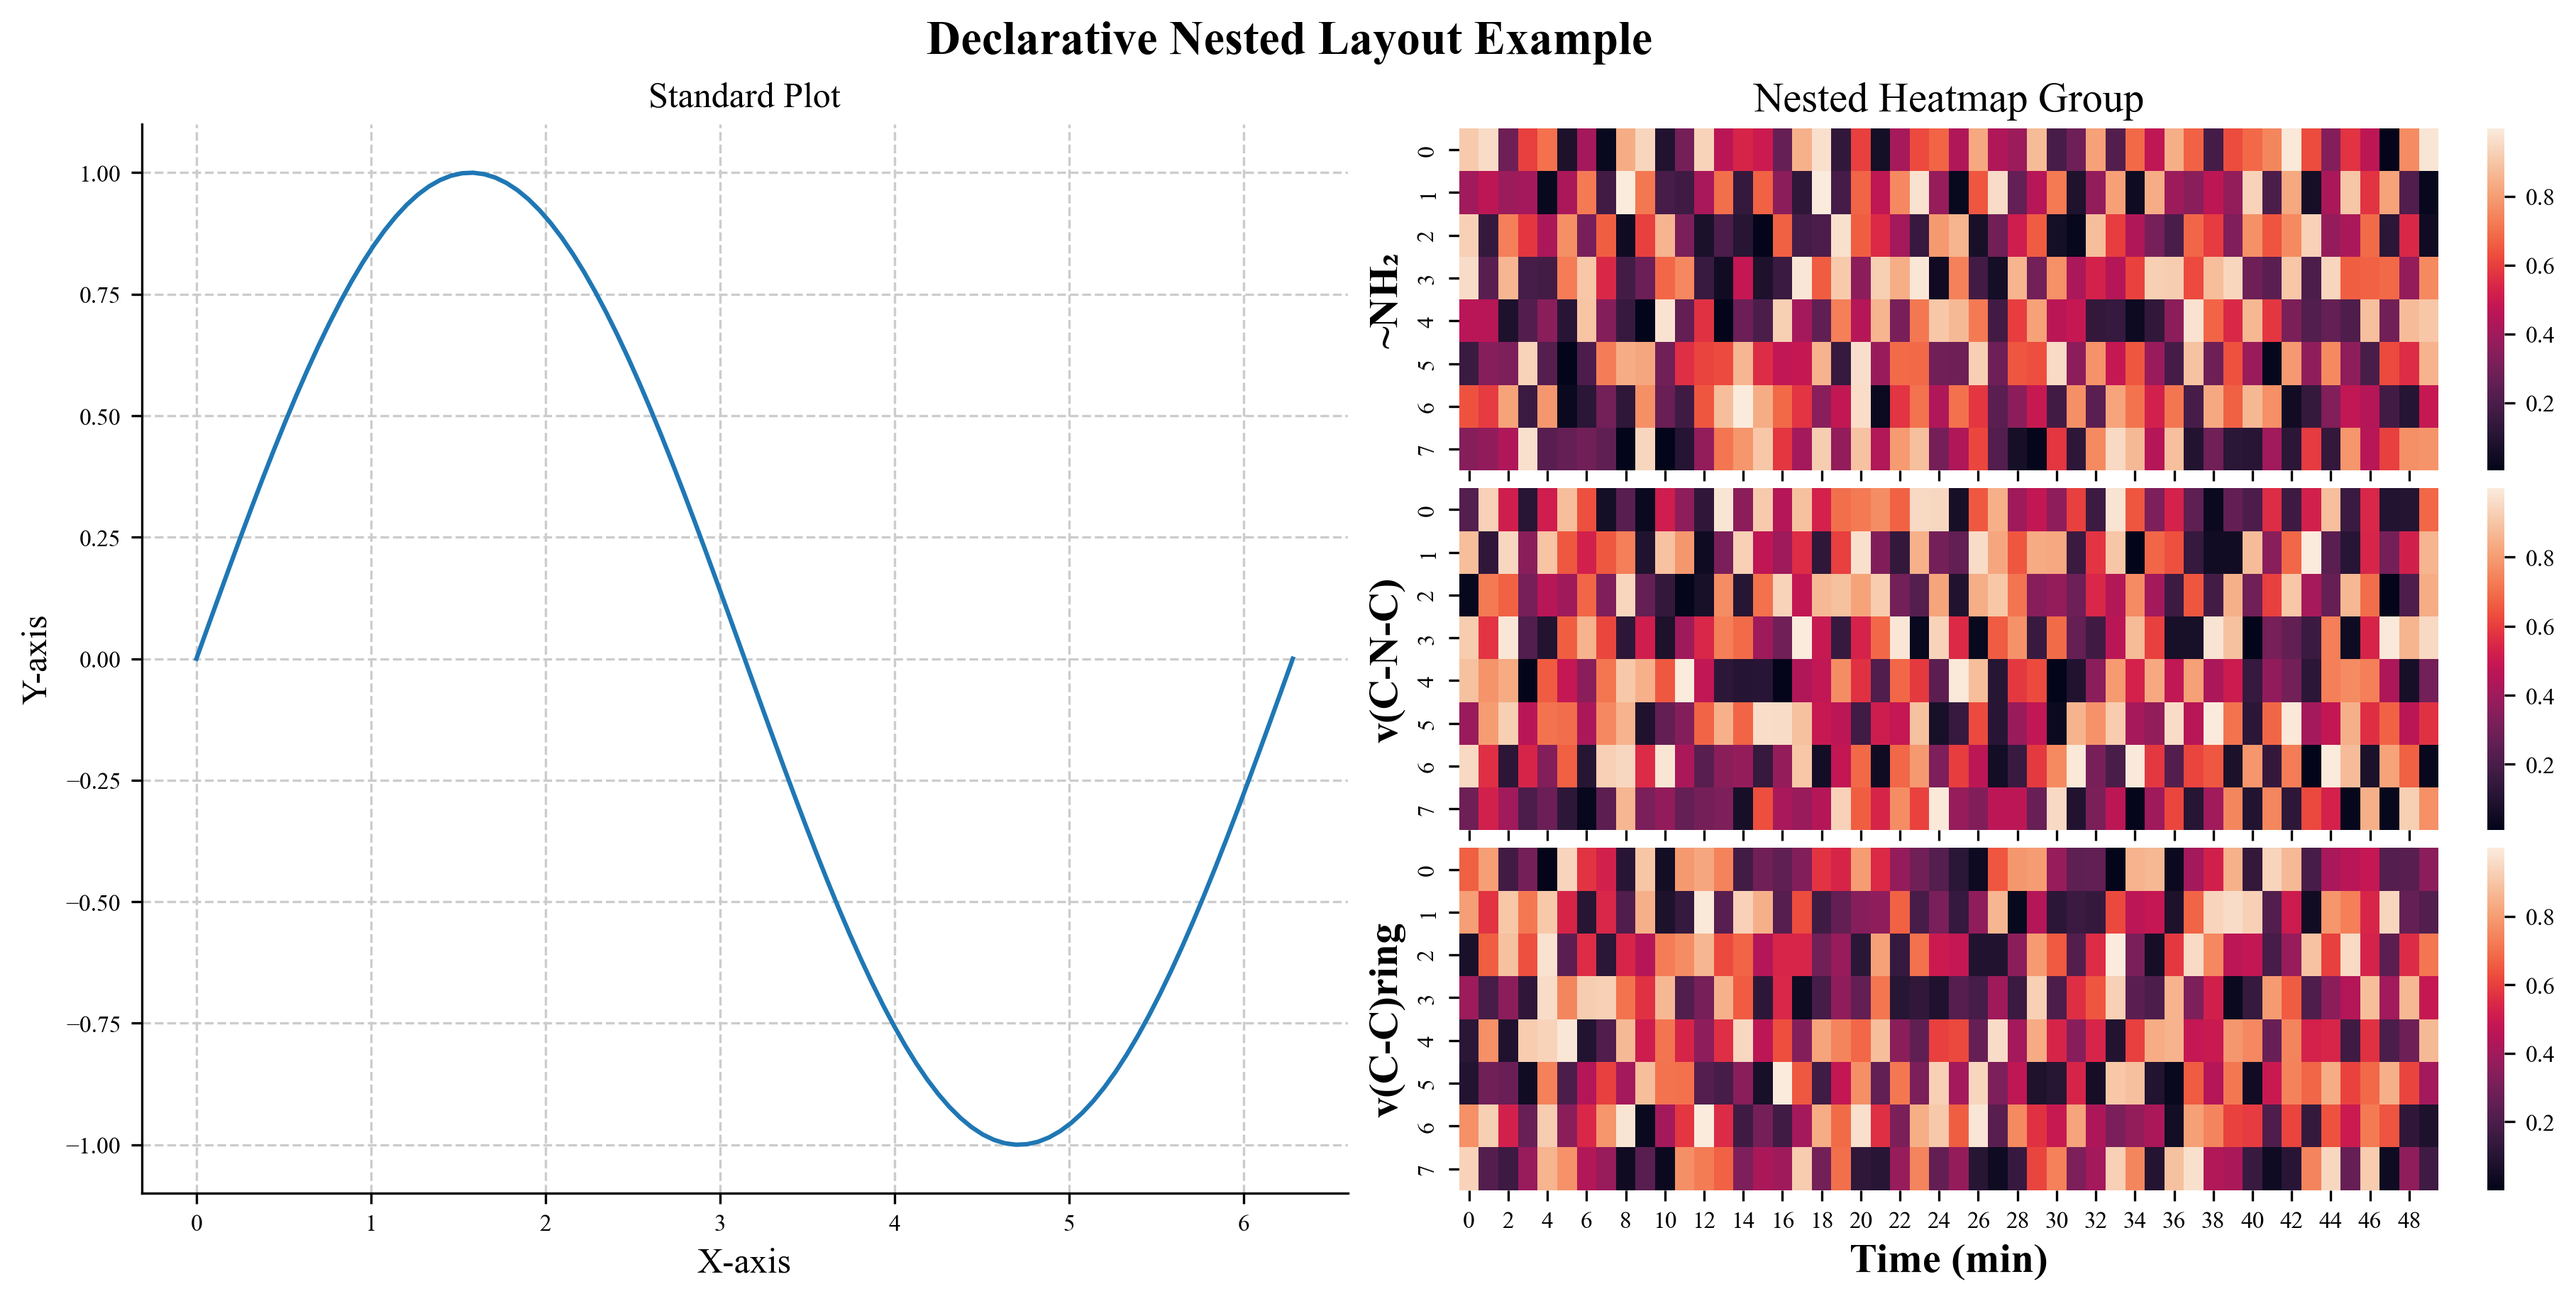
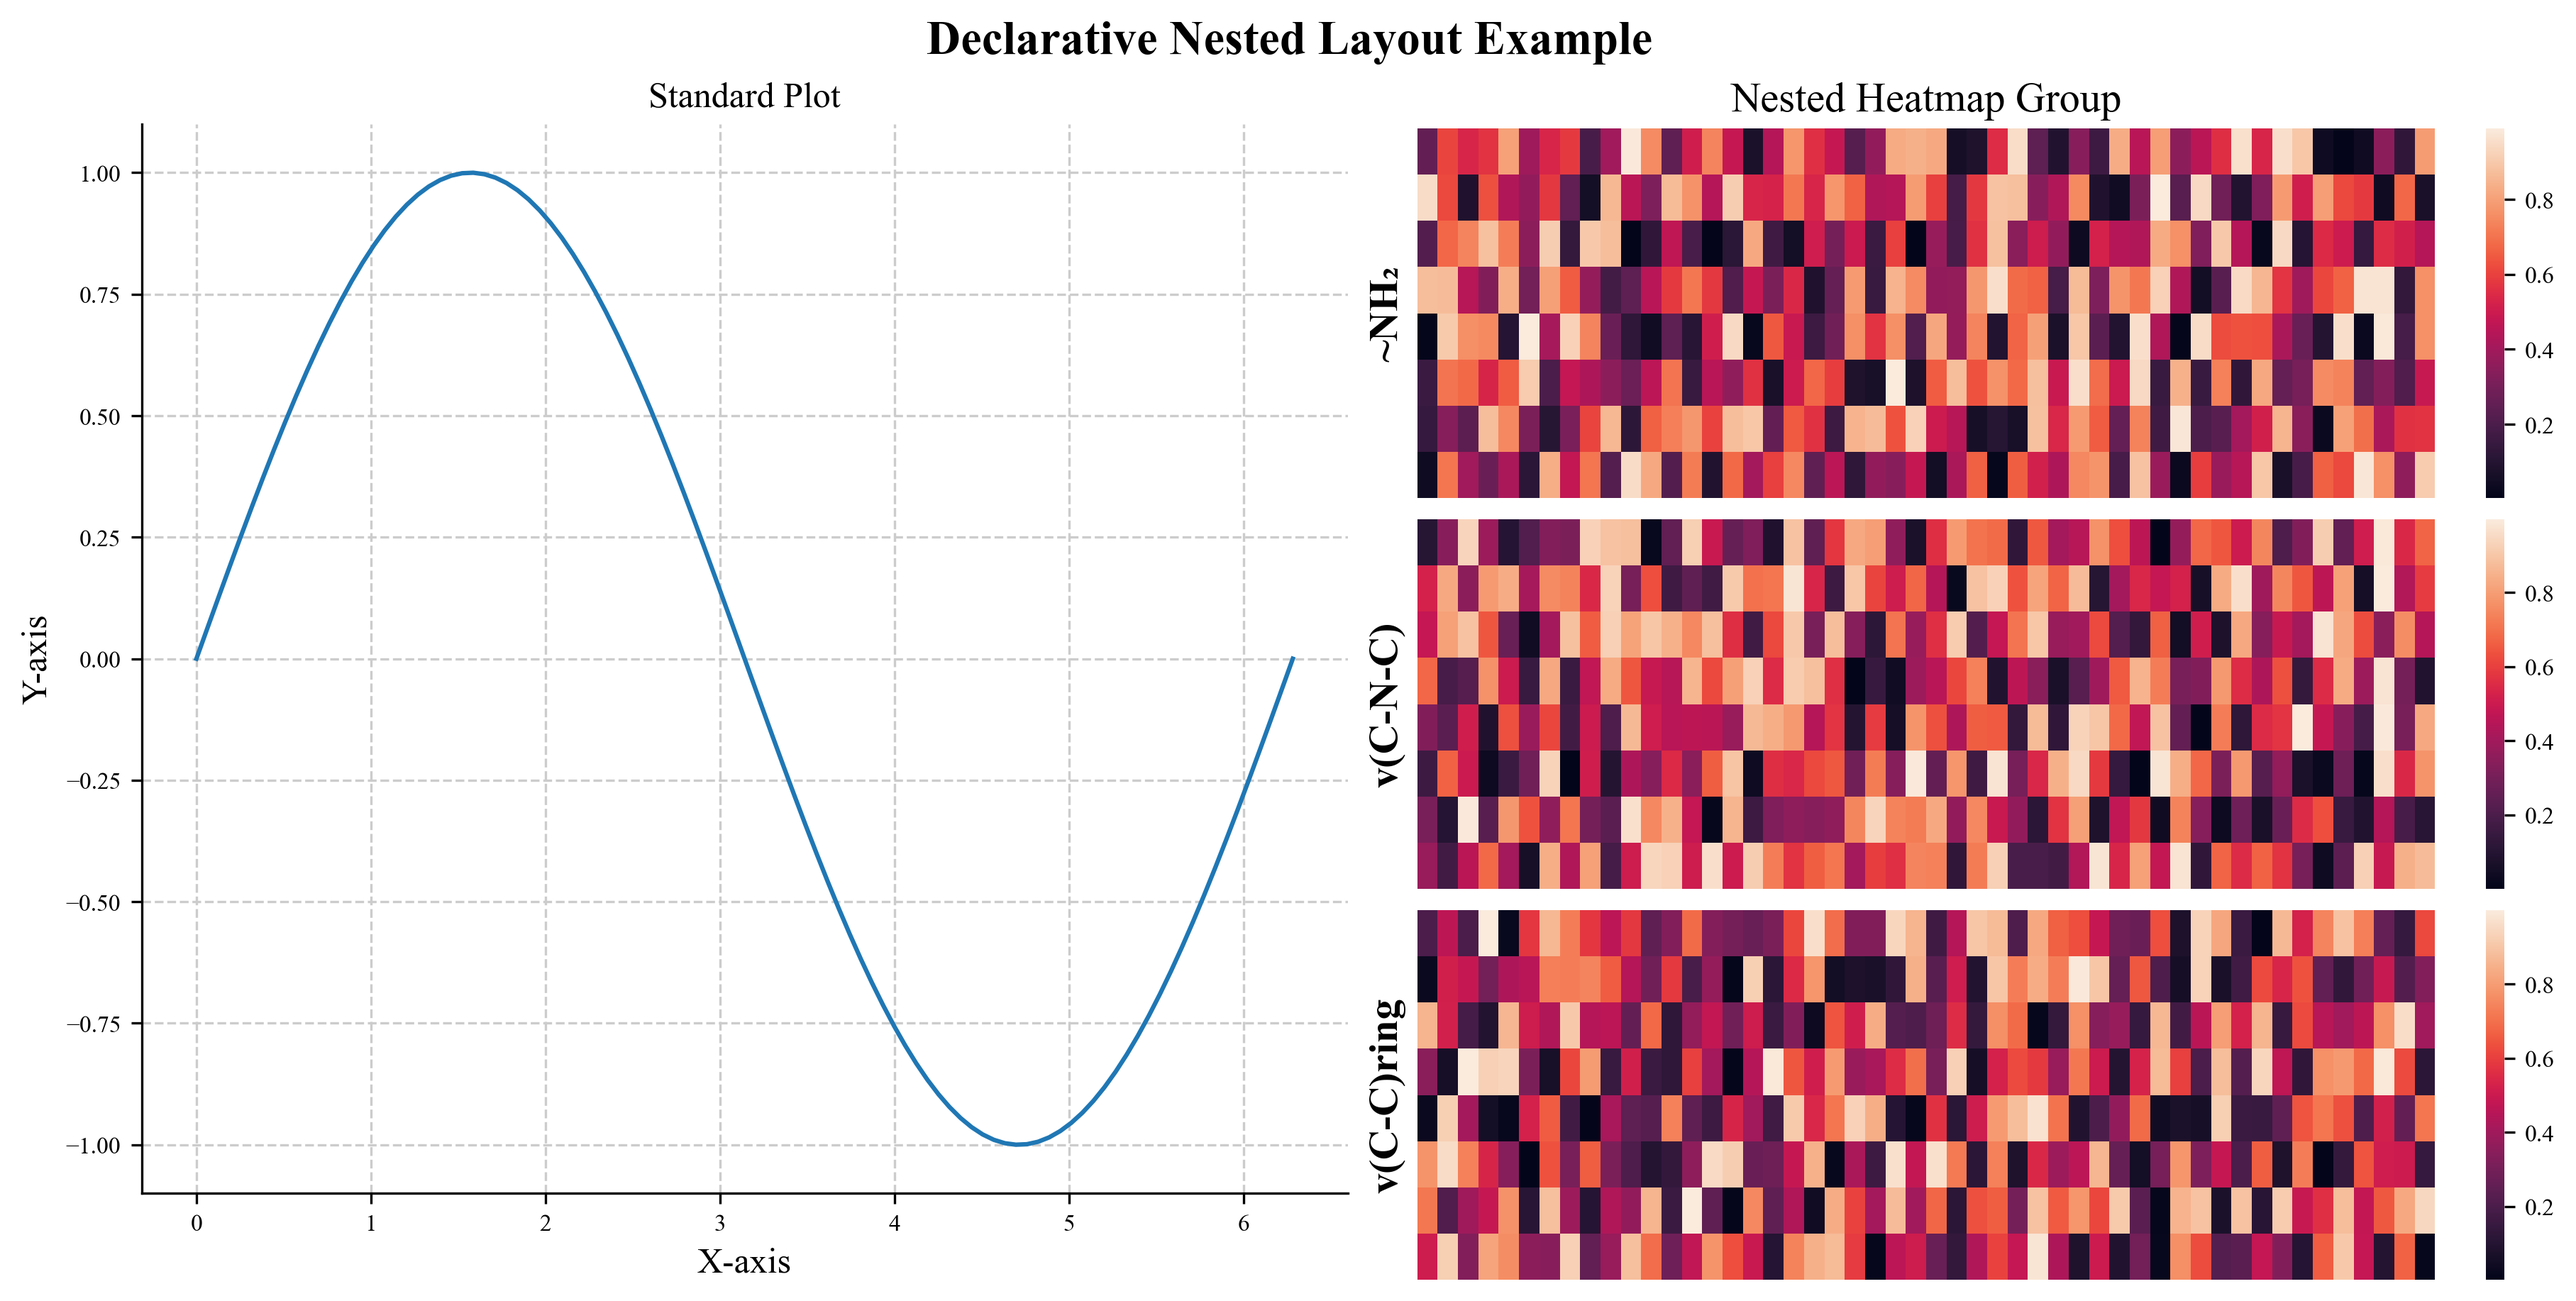
Initial commit

diff --git a/paperplot/mixins/modifiers.py b/paperplot/mixins/modifiers.py
@@ -393,15 +393,56 @@ class ModifiersMixin:
 
         return self
 
-    def hide_axes(self, x: bool = False, y: bool = False) -> 'Plotter':
+    def hide_axes(self, tag: Union[str, int],
+                  x_axis=False, y_axis=False,
+                  x_ticks=False, y_ticks=False,
+                  x_tick_labels=False, y_tick_labels=False,
+                  x_label=False, y_label=False,
+                  spines: List[str] = None) -> 'Plotter':
         """
-        隐藏所有子图的X轴或Y轴。
+        精细化地隐藏指定子图的坐标轴元素。
+
+        Args:
+            tag (Union[str, int]): 目标子图的 tag。
+            x_axis (bool): 如果为 True，隐藏整个 X 轴（包括标签、刻度等）。
+            y_axis (bool): 如果为 True，隐藏整个 Y 轴。
+            x_ticks (bool): 如果为 True，仅隐藏 X 轴的刻度线。
+            y_ticks (bool): 如果为 True，仅隐藏 Y 轴的刻度线。
+            x_tick_labels (bool): 如果为 True，仅隐藏 X 轴的刻度标签。
+            y_tick_labels (bool): 如果为 True，仅隐藏 Y 轴的刻度标签。
+            x_label (bool): 如果为 True，仅隐藏 X 轴的标签文本。
+            y_label (bool): 如果为 True，仅隐藏 Y 轴的标签文本。
+            spines (List[str]): 一个包含 'top', 'bottom', 'left', 'right' 的列表，
+                                 指定要隐藏的轴线。
+        Returns:
+            Plotter: 返回Plotter实例以支持链式调用。
         """
-        for ax in self.axes:
-            if x:
-                ax.get_xaxis().set_visible(False)
-            if y:
-                ax.get_yaxis().set_visible(False)
+        ax = self._get_ax_by_tag(tag)
+
+        if x_axis:
+            ax.get_xaxis().set_visible(False)
+        if y_axis:
+            ax.get_yaxis().set_visible(False)
+
+        if x_ticks:
+            ax.tick_params(axis='x', bottom=False)
+        if y_ticks:
+            ax.tick_params(axis='y', left=False)
+
+        if x_tick_labels:
+            ax.tick_params(axis='x', labelbottom=False)
+        if y_tick_labels:
+            ax.tick_params(axis='y', labelleft=False)
+
+        if x_label:
+            ax.xaxis.label.set_visible(False)
+        if y_label:
+            ax.yaxis.label.set_visible(False)
+
+        if spines:
+            for spine in spines:
+                ax.spines[spine].set_visible(False)
+
         return self
 
     def cleanup(self, share_y_on_rows: list[int] = None, share_x_on_cols: list[int] = None, align_labels: bool = True, auto_share: Union[bool, str] = False):

diff --git a/paperplot/core.py b/paperplot/core.py
@@ -23,6 +23,7 @@ class Plotter(GenericPlotsMixin, ModifiersMixin, DomainSpecificPlotsMixin):
                  figsize: Optional[Tuple[float, float]] = None, 
                  subplot_aspect: Optional[Tuple[float, float]] = None,
                  ax_configs: Optional[Dict[Union[str, Tuple[int, int]], Dict]] = None,
+                 layout_engine: Optional[str] = 'constrained',
                  **fig_kwargs):
         """
         初始化一个绘图管理器，创建画布和子图网格。
@@ -32,6 +33,7 @@ class Plotter(GenericPlotsMixin, ModifiersMixin, DomainSpecificPlotsMixin):
                 定义子图布局。
                 - 如果是 `(n_rows, n_cols)` 元组，将创建一个简单的 `n_rows` 行 `n_cols` 列的网格。
                 - 如果是 `List[List[str]]` (马赛克布局)，则允许创建复杂、跨行/跨列的布局。
+                - 如果是 `Dict`，则允许创建复杂、嵌套的布局。
             style (str, optional): 要应用的Matplotlib样式名称。默认为 'publication'。
             figsize (Optional[Tuple[float, float]], optional): 整个画布的尺寸 (宽度, 高度) 英寸。
                                                                与 `subplot_aspect` 互斥。
@@ -43,12 +45,16 @@ class Plotter(GenericPlotsMixin, ModifiersMixin, DomainSpecificPlotsMixin):
                 一个字典，键是子图的tag（对于马赛克布局）或`(row, col)`元组（对于简单网格），
                 值是传递给 `fig.add_subplot` 的关键字参数字典（例如 `{'projection': 'polar'}`）。
                 默认为None。
+            layout_engine (Optional[str], optional): 布局引擎。默认为 'constrained'。
             **fig_kwargs: 其他传递给 `matplotlib.pyplot.figure` 的关键字参数。
 
         Raises:
             ValueError: 如果布局定义无效，或者 `figsize` 和 `subplot_aspect` 被同时指定。
         """
         super().__init__()
+
+        if layout_engine:
+            fig_kwargs.setdefault('layout', layout_engine)
 
         if figsize is not None and subplot_aspect is not None:
             raise ValueError("Cannot specify both 'figsize' and 'subplot_aspect'. Choose one.")

diff --git a/examples/Layout/declarative_nested_layout_example.py b/examples/Layout/declarative_nested_layout_example.py
@@ -71,10 +71,10 @@ try:
     # a. 只在最顶部的子图上添加标题
     plotter.set_title('heatmap_group.nh2_map', 'Nested Heatmap Group', fontsize=14)
 
-    # b. 隐藏不需要的 X 轴刻度标签，实现共享X轴的效果
-    #    (这里我们假设您已经实现了更精细的 hide_axes 或 tick_params)
-    plotter.tick_params('heatmap_group.nh2_map', axis='x', labelbottom=False)
-    plotter.tick_params('heatmap_group.cnc_map', axis='x', labelbottom=False)
+    # b. 同时隐藏X轴、Y轴刻度线、Y轴刻度数字
+    plotter.hide_axes('heatmap_group.nh2_map', x_axis=True, y_ticks=True, y_tick_labels=True)
+    plotter.hide_axes('heatmap_group.cnc_map', x_axis=True, y_ticks=True, y_tick_labels=True)
+    plotter.hide_axes('heatmap_group.ring_map', x_axis=True, y_ticks=True, y_tick_labels=True)
 
     # c. 只在最底部的子图上添加 X 轴标签
     plotter.set_xlabel('heatmap_group.ring_map', 'Time (min)', fontsize=14, weight='bold')
